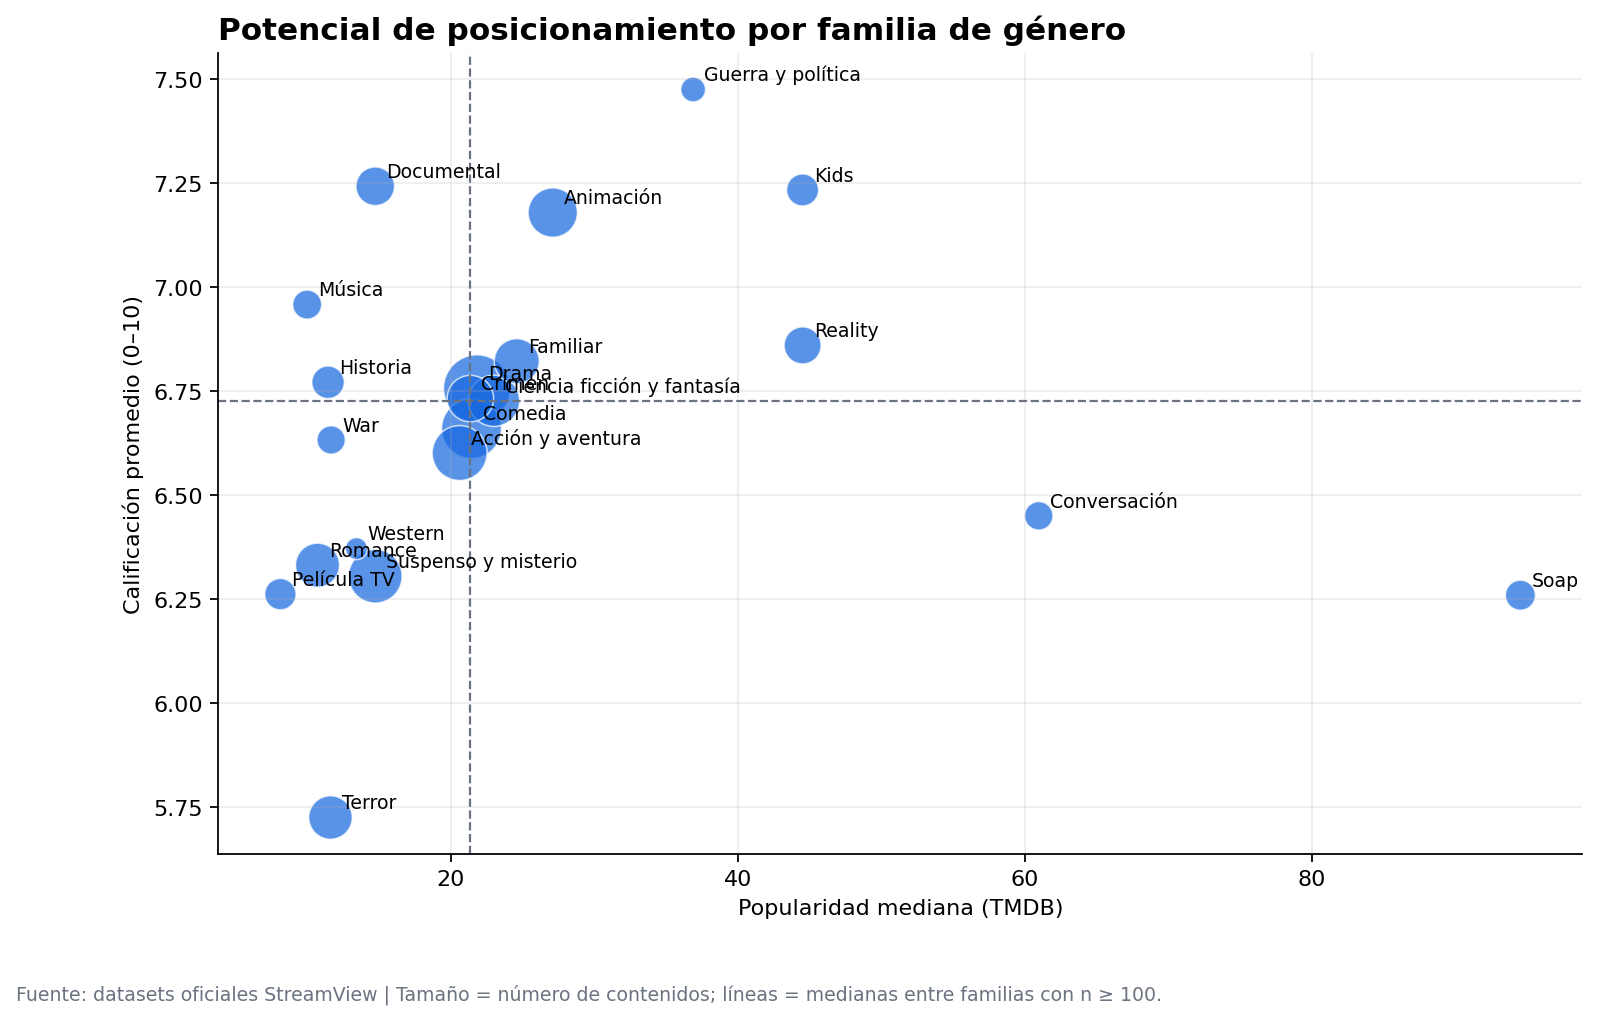
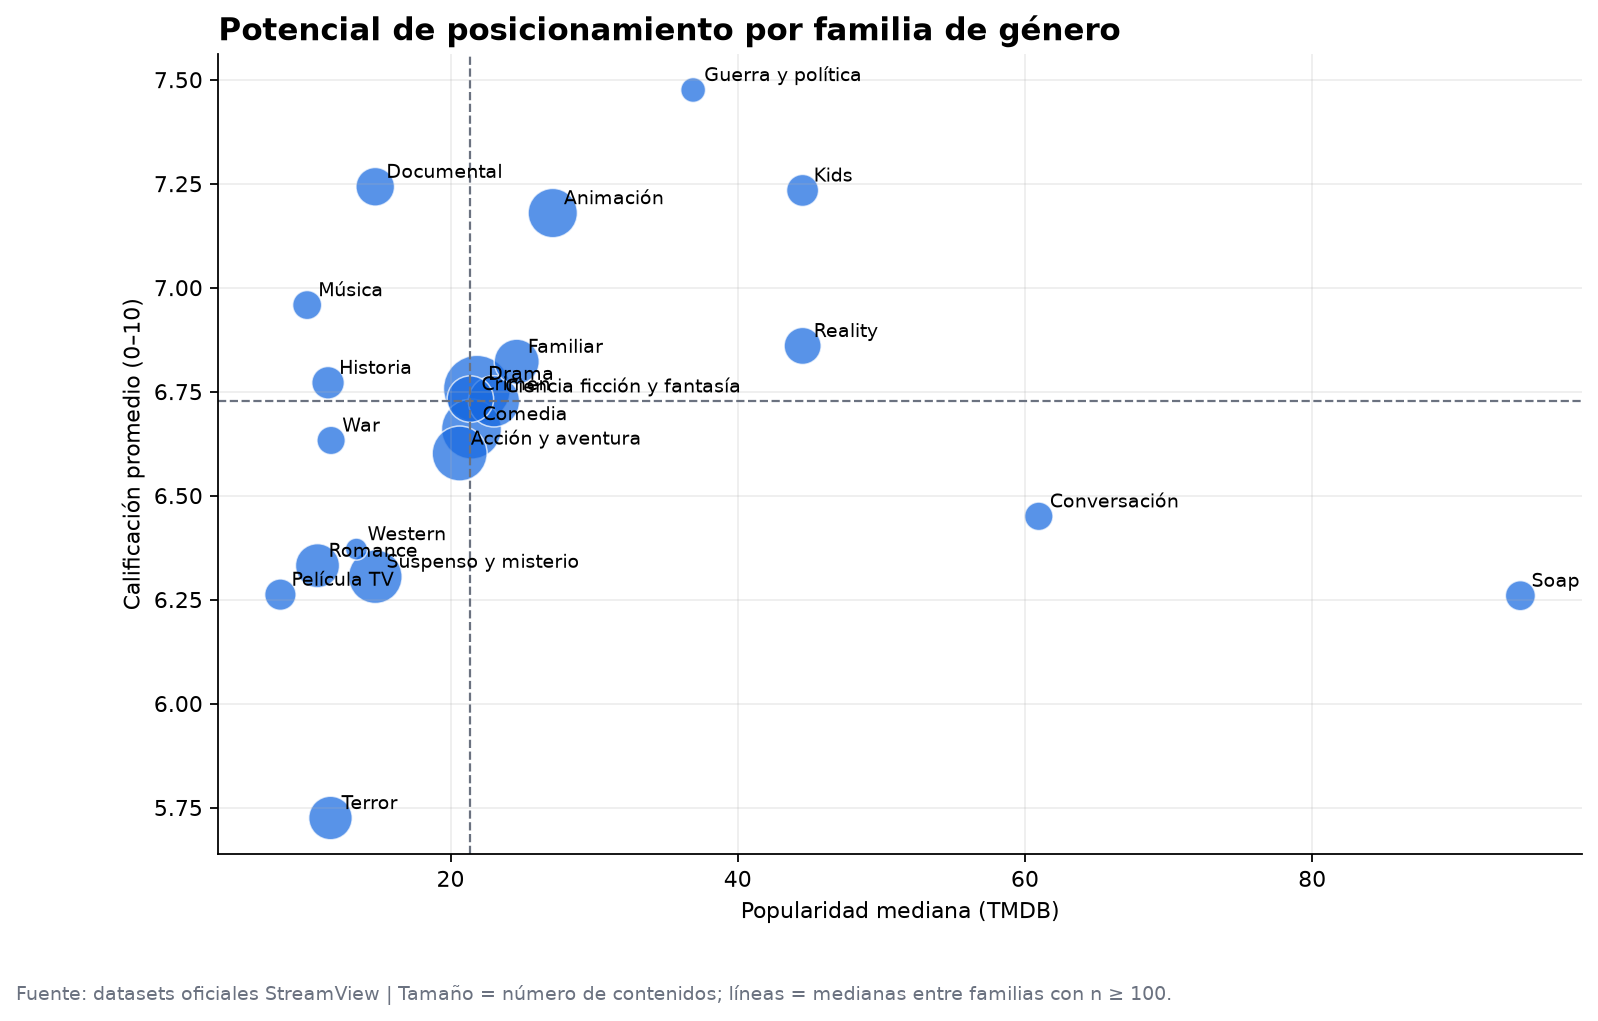
correcciones en el dashboard.

diff --git a/dashboard/app.py b/dashboard/app.py
@@ -7,8 +7,6 @@ import plotly.express as px
 import plotly.graph_objects as go
 import plotly.io as pio
 
-# Texto más grande y legible en todos los gráficos
-pio.templates['plotly_white'].layout.font.size = 15
 
 """
 StreamView Analytics - Dashboard estratégico (Gerencia de Marketing).
@@ -26,6 +24,23 @@ MORADO = '#7C3AED'
 GRIS = '#6B7280'
 OSCURO = '#111827'
 GRIS_CLARO = '#F8F9FA'
+
+# Tema único para todos los gráficos (tipografía, rejilla suave, paleta corporativa)
+_tpl = pio.templates['plotly_white'].layout
+_tpl.font.family = "Lato, 'Segoe UI', Arial, sans-serif"
+_tpl.font.size = 15
+_tpl.font.color = '#1F2937'
+_tpl.title.font.size = 19
+_tpl.title.font.color = OSCURO
+_tpl.title.x = 0.01
+_tpl.xaxis.gridcolor = '#EEF1F5'
+_tpl.yaxis.gridcolor = '#EEF1F5'
+_tpl.xaxis.linecolor = '#D1D5DB'
+_tpl.yaxis.linecolor = '#D1D5DB'
+_tpl.hoverlabel.bgcolor = OSCURO
+_tpl.hoverlabel.font.color = 'white'
+_tpl.hoverlabel.font.size = 14
+_tpl.colorway = [AZUL, ROJO, VERDE, AMBAR, MORADO, '#0891B2', '#DB2777', '#65A30D', GRIS, '#EA580C']
 
 BASE = Path(__file__).resolve().parent.parent / 'data' / 'processed'
 _REQUERIDOS = ['top_candidatos_campania.csv', 'catalogo_marketing_score.csv', 'evolucion_incorporacion.csv',
@@ -134,46 +149,99 @@ def figura_vacia(titulo):
 # -----------------------------------------------------------------------------
 # 2. INICIALIZACIÓN E INTERFAZ
 # -----------------------------------------------------------------------------
-app = dash.Dash(__name__, external_stylesheets=[dbc.themes.FLATLY, dbc.icons.BOOTSTRAP])
-app.index_string = app.index_string.replace(
-    '</head>',
-    '<style>body{font-size:16px} .fs-7{font-size:1rem!important} .fs-8{font-size:.95rem!important} '
-    'small,.small{font-size:.95rem!important} .Select-value-label,.Select-option{font-size:15px!important}</style></head>')
+app = dash.Dash(__name__, external_stylesheets=[dbc.themes.FLATLY, dbc.icons.FONT_AWESOME])
+ESTILOS = r"""
+<style>
+body{font-size:16px; background:#F1F4F9}
+.fs-7{font-size:1rem!important} .fs-8{font-size:.95rem!important}
+small,.small{font-size:.95rem!important}
+.Select-value-label,.Select-option{font-size:15px!important}
+
+/* Encabezado */
+.app-header{background:linear-gradient(120deg,#0B1220 0%,#17213A 60%,#2B1219 100%);
+            border-bottom:3px solid #E50914}
+.app-header .brand-icon{width:54px;height:54px;border-radius:14px;background:rgba(229,9,20,.15);
+            border:1px solid rgba(229,9,20,.45);display:flex;align-items:center;justify-content:center;
+            color:#FF4B55;font-size:1.6rem}
+
+/* Tarjetas */
+.card{border-radius:14px!important}
+.kpi-card{border-left:5px solid var(--c)!important; transition:transform .18s ease, box-shadow .18s ease}
+.kpi-card:hover{transform:translateY(-3px); box-shadow:0 10px 24px rgba(17,24,39,.10)!important}
+.kpi-icon{width:58px;height:58px;border-radius:16px;display:flex;align-items:center;
+          justify-content:center;font-size:1.55rem;color:var(--c);background:var(--bg)}
+.kpi-label{letter-spacing:.04em;text-transform:uppercase;font-size:.78rem!important;color:#6B7280}
+.hallazgo-icon{width:42px;height:42px;border-radius:12px;display:flex;align-items:center;
+               justify-content:center;font-size:1.15rem;color:var(--c);background:var(--bg)}
+.section-title{color:#111827}
+.section-title i{color:#E50914}
+
+/* Pestañas */
+.nav-tabs{border-bottom:2px solid #E3E8EF; margin-bottom:1rem}
+.nav-tabs .nav-link{color:#4B5563;font-weight:700;border:none;border-bottom:3px solid transparent;
+                    margin-bottom:-2px;padding:.85rem 1.2rem;background:transparent;border-radius:0}
+.nav-tabs .nav-link:hover{color:#E50914;border-bottom-color:#F4A6AB}
+.nav-tabs .nav-link.active{color:#E50914;background:transparent;border-bottom:3px solid #E50914}
+.nav-tabs .nav-link::before{font-family:'Font Awesome 6 Free';font-weight:900;margin-right:.55rem}
+.tab-matriz::before{content:'\f140'}
+.tab-hallazgos::before{content:'\f0eb'}
+.tab-familias::before{content:'\f080'}
+.tab-geo::before{content:'\f57d'}
+.tab-comercial::before{content:'\f51e'}
+
+/* Botones y acordeones */
+.btn-danger{background:#E50914;border-color:#E50914}
+.btn-danger:hover{background:#B8070F;border-color:#B8070F}
+.btn-outline-secondary:hover{background:#111827;border-color:#111827}
+.accordion-button:not(.collapsed){color:#E50914;background:#FDF2F2;box-shadow:none}
+.list-group-item{border-color:#EEF1F5}
+</style>
+"""
+app.index_string = app.index_string.replace('</head>', ESTILOS + '</head>')
 
 header = dbc.Navbar(
     dbc.Container([
         dbc.Row([
-            dbc.Col(html.I(className="bi bi-play-btn-fill text-danger fs-1"), width="auto"),
+            dbc.Col(html.Div(html.I(className="fa-solid fa-circle-play"), className="brand-icon"), width="auto"),
             dbc.Col(html.Div([
-                html.H2("StreamView Analytics", className="mb-0 text-white fw-bold", style={'whiteSpace': 'nowrap'}),
-                html.Div("Dashboard Estratégico — Gerencia de Marketing", className="text-light fs-5", style={'whiteSpace': 'nowrap'}),
+                html.H2("StreamView Analytics", className="mb-0 text-white fw-bold", style={'whiteSpace': 'nowrap', 'letterSpacing': '.01em'}),
+                html.Div("Dashboard Estratégico — Gerencia de Marketing", className="fs-6", style={'whiteSpace': 'nowrap', 'color': '#AAB4C8'}),
             ], className="text-center")),
-            dbc.Col(html.I(className="bi bi-play-btn-fill fs-1", style={'visibility': 'hidden'}), width="auto"),  # equilibra el ícono para centrar el texto
+            dbc.Col(html.Div(className="brand-icon", style={'visibility': 'hidden'}), width="auto"),  # equilibra el ícono para centrar el texto
         ], align="center", className="g-0 w-100 flex-nowrap")
     ], fluid=True),
-    color=OSCURO, dark=True, className="mb-4 shadow-sm py-2"
+    color=OSCURO, dark=True, className="mb-4 shadow-sm py-3 app-header"
 )
 
-def make_kpi_card(title, value, subtitle, icon, color_class="text-primary"):
+def _tinte(hex_color, alpha=0.12):
+    h = hex_color.lstrip('#')
+    r, g, b = (int(h[i:i + 2], 16) for i in (0, 2, 4))
+    return f'rgba({r},{g},{b},{alpha})'
+
+
+def make_kpi_card(title, value, subtitle, icon, color=AZUL):
     return dbc.Card(dbc.CardBody(
         dbc.Row([
-            dbc.Col([html.H6(title, className="card-subtitle text-muted mb-1 fs-7 fw-semibold"),
-                     html.H3(value, className="card-title fw-bold mb-0"),
+            dbc.Col([html.Div(title, className="kpi-label fw-bold mb-1"),
+                     html.H3(value, className="card-title fw-bold mb-0", style={'fontSize': '2rem', 'color': OSCURO}),
                      html.Small(subtitle, className="text-muted fs-8")], width=9),
-            dbc.Col(html.I(className=f"bi {icon} fs-1 {color_class}"), width=3, className="text-end d-flex align-items-center justify-content-center")
+            dbc.Col(html.Div(html.I(className=f"fa-solid {icon}"), className="kpi-icon"),
+                    width=3, className="d-flex align-items-center justify-content-end")
         ])
-    ), className="shadow-sm border-0 rounded-3 h-100")
+    ), className="shadow-sm border-0 h-100 kpi-card", style={'--c': color, '--bg': _tinte(color)})
 
 # KPIs dinámicos: se recalculan con los filtros globales (callback update_kpis)
 kpis = dbc.Row(id='kpi-row', className="mb-4 g-3")
 
 filtros_globales = dbc.Card(dbc.CardBody([
+    html.Div([html.I(className="fa-solid fa-sliders me-2", style={'color': ROJO}), "Filtros globales"],
+             className="fw-bold mb-2", style={'color': OSCURO}),
     dbc.Row([
         dbc.Col([html.Label("Tipo de contenido", className="fw-semibold fs-7 mb-1"),
                  dcc.Dropdown(id='filter-tipo', options=[{'label': 'Todos', 'value': 'TODOS'}] + [{'label': i, 'value': i} for i in sorted(cat_score['tipo_es'].dropna().unique())], value='TODOS', clearable=False)], width=12, md=5),
         dbc.Col([html.Label("Idioma original", className="fw-semibold fs-7 mb-1"),
                  dcc.Dropdown(id='filter-idioma', options=[{'label': 'Todos', 'value': 'TODOS'}] + [{'label': i, 'value': i} for i in idiomas_disp], value='TODOS', clearable=False)], width=12, md=5),
-        dbc.Col(dbc.Button("↺ Restablecer", id='btn-reset', color='secondary', outline=True, className="w-100"),
+        dbc.Col(dbc.Button([html.I(className="fa-solid fa-rotate-left me-2"), "Restablecer"], id='btn-reset', color='secondary', outline=True, className="w-100"),
                 width=12, md=2, className="d-flex align-items-end"),
     ], className="g-2"),
     dbc.Accordion(dbc.AccordionItem(
@@ -186,7 +254,7 @@ filtros_globales = dbc.Card(dbc.CardBody([
 ]), className="border-0 shadow-sm rounded-3 mb-3")
 
 tab_matriz = dbc.Card(dbc.CardBody([
-    html.H5("¿Qué promocionar? Matriz de contenidos", className="fw-bold mb-1"),
+    html.H5([html.I(className="fa-solid fa-bullseye me-2"), "¿Qué promocionar? Matriz de contenidos"], className="fw-bold mb-1 section-title"),
     html.P("Filtra y explora los cuadrantes para extraer títulos de pauta publicitaria.", className="text-muted mb-3 fs-7"),
     dbc.Row([
         dbc.Col([html.Label("Filtrar por Cuadrante:", className="fw-semibold fs-7 mb-1"),
@@ -205,7 +273,7 @@ tab_matriz = dbc.Card(dbc.CardBody([
     html.Hr(className="my-4"),
     dbc.Row([
         dbc.Col(html.H6("Tabla de Candidatos Destacados para Campañas", className="fw-bold mb-1"), width=12, md=8),
-        dbc.Col(dbc.Button("⬇ Exportar candidatos (CSV)", id='btn-export', color='danger', size='sm', className="float-md-end"), width=12, md=4),
+        dbc.Col(dbc.Button([html.I(className="fa-solid fa-file-arrow-down me-2"), "Exportar candidatos (CSV)"], id='btn-export', color='danger', size='sm', className="float-md-end"), width=12, md=4),
     ], className="align-items-center"),
     html.Div(id='tabla-count', className="text-muted fs-8 mb-2"),
     dash_table.DataTable(
@@ -228,7 +296,7 @@ tab_matriz = dbc.Card(dbc.CardBody([
 ]), className="border-0 shadow-sm rounded-3 mb-4")
 
 tab_familias = dbc.Card(dbc.CardBody([
-    html.H5("Rendimiento por Familias de Géneros", className="fw-bold mb-1"),
+    html.H5([html.I(className="fa-solid fa-chart-column me-2"), "Rendimiento por Familias de Géneros"], className="fw-bold mb-1 section-title"),
     html.P("Qué categorías tienen mayor potencial: volumen disponible vs. desempeño real de audiencia.", className="text-muted mb-3 fs-7"),
     dbc.Row([
         dbc.Col(dcc.Graph(id='bar-volumen-familias', style={'height': '450px'}), width=12, lg=6),
@@ -237,7 +305,7 @@ tab_familias = dbc.Card(dbc.CardBody([
 ]), className="border-0 shadow-sm rounded-3 mb-4")
 
 tab_geografia = dbc.Card(dbc.CardBody([
-    html.H5("Segmentación Geográfica, Idiomas y Ritmo de Incorporación", className="fw-bold mb-1"),
+    html.H5([html.I(className="fa-solid fa-earth-americas me-2"), "Segmentación Geográfica, Idiomas y Ritmo de Incorporación"], className="fw-bold mb-1 section-title"),
     html.P("Países e idiomas reaccionan a los filtros globales. El ritmo de incorporación solo responde al tipo de contenido.", className="text-muted mb-3 fs-7"),
     dbc.Row([
         dbc.Col(dcc.Graph(id='bar-top-paises', style={'height': '420px'}), width=12, lg=6),
@@ -254,20 +322,20 @@ tab_geografia = dbc.Card(dbc.CardBody([
 kpi_oportunidad = dbc.Row([
     dbc.Col(make_kpi_card(
         "Películas Analizadas", f"{len(oportunidades_tab):,}",
-        "Con presupuesto y recaudación reales", "bi-cash-coin", "text-success"
+        "Con presupuesto y recaudación reales", "fa-sack-dollar", VERDE
     ), width=12, md=4),
     dbc.Col(make_kpi_card(
         "ROI Mediano", f"{oportunidades_tab['roi'].median():.1f}x",
-        "Retorno sobre presupuesto invertido", "bi-graph-up-arrow", "text-primary"
+        "Retorno sobre presupuesto invertido", "fa-chart-line", AZUL
     ), width=12, md=4),
     dbc.Col(make_kpi_card(
         "Joyas Ocultas", f"{(oportunidades_tab['oportunidad_comercial'] == JOYA_OCULTA).sum():,}",
-        "Alta rentabilidad, poca exposición aún", "bi-gem", "text-purple"
+        "Alta rentabilidad, poca exposición aún", "fa-gem", MORADO
     ), width=12, md=4),
 ], className="mb-4 g-3")
 
 tab_comercial = dbc.Card(dbc.CardBody([
-    html.H5("Oportunidades Comerciales", className="fw-bold mb-1"),
+    html.H5([html.I(className="fa-solid fa-coins me-2"), "Oportunidades Comerciales"], className="fw-bold mb-1 section-title"),
     html.P("Cruce entre rentabilidad (presupuesto vs. recaudación) y popularidad, solo para "
            "películas con datos financieros reales en TMDB. Las 'joyas ocultas' son las mejores "
            "candidatas a impulsar con campaña: ya son rentables pero todavía tienen poco alcance.",
@@ -309,8 +377,9 @@ tab_comercial = dbc.Card(dbc.CardBody([
 ]), className="border-0 shadow-sm rounded-3 mb-4")
 
 # --- PESTAÑA: Hallazgos y recomendaciones (infografía / data storytelling) -------
-def hallazgo_card(numero, titulo, detalle, color):
+def hallazgo_card(numero, titulo, detalle, color, icono="fa-circle-info"):
     return dbc.Col(dbc.Card(dbc.CardBody([
+        html.Div(html.I(className=f"fa-solid {icono}"), className="hallazgo-icon mb-2", style={'--c': color, '--bg': _tinte(color)}),
         html.Div(numero, className="fw-bold", style={'fontSize': '2.4rem', 'color': color, 'lineHeight': '1.1'}),
         html.Div(titulo, className="fw-semibold mb-1"),
         html.Small(detalle, className="text-muted"),
@@ -327,17 +396,17 @@ _top_joya = oportunidades_tab[oportunidades_tab['oportunidad_comercial'] == JOYA
 _n_series_top = int((top_campanias['tipo_es'] == 'Serie').sum())
 
 tab_hallazgos = dbc.Card(dbc.CardBody([
-    html.H5("Hallazgos clave y recomendaciones", className="fw-bold mb-1"),
+    html.H5([html.I(className="fa-solid fa-lightbulb me-2"), "Hallazgos clave y recomendaciones"], className="fw-bold mb-1 section-title"),
     html.P("Resumen narrativo del análisis sobre el catálogo completo (sin filtros). Datos de catálogo: no incluyen reproducciones, clics ni conversión.", className="text-muted mb-3 fs-7"),
     dbc.Row([
         hallazgo_card(f"{_n_prom / _n_total:.0%}", "del catálogo es “Promocionar”",
-                      f"{_n_prom:,} de {_n_total:,} títulos combinan alto alcance y alta valoración: base de la campaña principal.", VERDE),
+                      f"{_n_prom:,} de {_n_total:,} títulos combinan alto alcance y alta valoración: base de la campaña principal.", VERDE, "fa-bullseye"),
         hallazgo_card(f"{_n_series_top}/{len(top_campanias)}", "candidatos del Top son series",
-                      f"Lideran {_top3}. Estrategia sugerida: series destacadas sin excluir películas de alto score.", AZUL),
+                      f"Lideran {_top3}. Estrategia sugerida: series destacadas sin excluir películas de alto score.", AZUL, "fa-tv"),
         hallazgo_card(' y '.join(_mejores), "mejor valoración entre familias grandes",
-                      "Volumen no es potencial: Drama y Comedia dominan el inventario, pero no la calidad percibida.", AMBAR),
+                      "Volumen no es potencial: Drama y Comedia dominan el inventario, pero no la calidad percibida.", AMBAR, "fa-masks-theater"),
         hallazgo_card(f"{_n_joyas}", "películas “joya oculta”",
-                      f"Alta rentabilidad y poca exposición (presupuesto ≥ USD 100.000). Mayor ROI: {_top_joya['title'].iloc[0] if len(_top_joya) else '—'}.", MORADO),
+                      f"Alta rentabilidad y poca exposición (presupuesto ≥ USD 100.000). Mayor ROI: {_top_joya['title'].iloc[0] if len(_top_joya) else '—'}.", MORADO, "fa-gem"),
     ], className="g-3 mb-4"),
     html.H6("Recomendaciones para Marketing", className="fw-bold mb-2"),
     dbc.ListGroup([
@@ -357,16 +426,16 @@ app.layout = html.Div([
         filtros_globales,
         kpis,
         dbc.Tabs([
-            dbc.Tab(tab_matriz, label="🎯 Qué promocionar", tab_id="tab-matriz"),
-            dbc.Tab(tab_hallazgos, label="📌 Hallazgos y recomendaciones", tab_id="tab-hallazgos"),
-            dbc.Tab(tab_familias, label="📊 Géneros", tab_id="tab-familias"),
-            dbc.Tab(tab_geografia, label="🌍 Geografía y Tiempos", tab_id="tab-geo"),
-            dbc.Tab(tab_comercial, label="💰 Oportunidades", tab_id="tab-comercial"),
+            dbc.Tab(tab_matriz, label="Qué promocionar", tab_id="tab-matriz", label_class_name="tab-matriz"),
+            dbc.Tab(tab_hallazgos, label="Hallazgos y recomendaciones", tab_id="tab-hallazgos", label_class_name="tab-hallazgos"),
+            dbc.Tab(tab_familias, label="Géneros", tab_id="tab-familias", label_class_name="tab-familias"),
+            dbc.Tab(tab_geografia, label="Geografía y Tiempos", tab_id="tab-geo", label_class_name="tab-geo"),
+            dbc.Tab(tab_comercial, label="Oportunidades", tab_id="tab-comercial", label_class_name="tab-comercial"),
         ], active_tab="tab-matriz"),
         dcc.Download(id='download-candidatos'),
         html.Footer(html.P("StreamView Analytics © 2026 — Gerencia de Marketing.", className="text-center text-muted fs-8 my-4"))
     ], fluid=True)
-], style={'backgroundColor': '#F4F6F9', 'minHeight': '100vh'})
+], style={'backgroundColor': '#F1F4F9', 'minHeight': '100vh'})
 
 # -----------------------------------------------------------------------------
 # 3. CALLBACKS
@@ -405,10 +474,10 @@ def update_kpis(tipo, idioma, familia):
     joyas = int(((oportunidades_tab['oportunidad_comercial'] == JOYA_OCULTA) & oportunidades_tab['uid'].isin(df['uid'])).sum())
     nd = '—'
     tarjetas = [
-        make_kpi_card("Catálogo Evaluado", f"{n:,}", "Con votos y valoración válidos", "bi-film", "text-primary"),
-        make_kpi_card("Candidatos Promoción", f"{n_prom:,}", f"{n_prom / n:.0%} del catálogo filtrado" if n else "Alto alcance y alta valoración", "bi-megaphone-fill", "text-danger"),
-        make_kpi_card("Score Promedio", f"{df['score_campania'].mean():.2f}" if n else nd, "Escala estandarizada (0-1)", "bi-star-fill", "text-warning"),
-        make_kpi_card("Joyas Ocultas", f"{joyas:,}", "Alta rentabilidad, poca exposición", "bi-gem", "text-purple"),
+        make_kpi_card("Catálogo Evaluado", f"{n:,}", "Con votos y valoración válidos", "fa-clapperboard", AZUL),
+        make_kpi_card("Candidatos Promoción", f"{n_prom:,}", f"{n_prom / n:.0%} del catálogo filtrado" if n else "Alto alcance y alta valoración", "fa-bullhorn", ROJO),
+        make_kpi_card("Score Promedio", f"{df['score_campania'].mean():.2f}" if n else nd, "Escala estandarizada (0-1)", "fa-ranking-star", AMBAR),
+        make_kpi_card("Joyas Ocultas", f"{joyas:,}", "Alta rentabilidad, poca exposición", "fa-gem", MORADO),
     ]
     return [dbc.Col(t, width=12, md=6, lg=3) for t in tarjetas]
 
